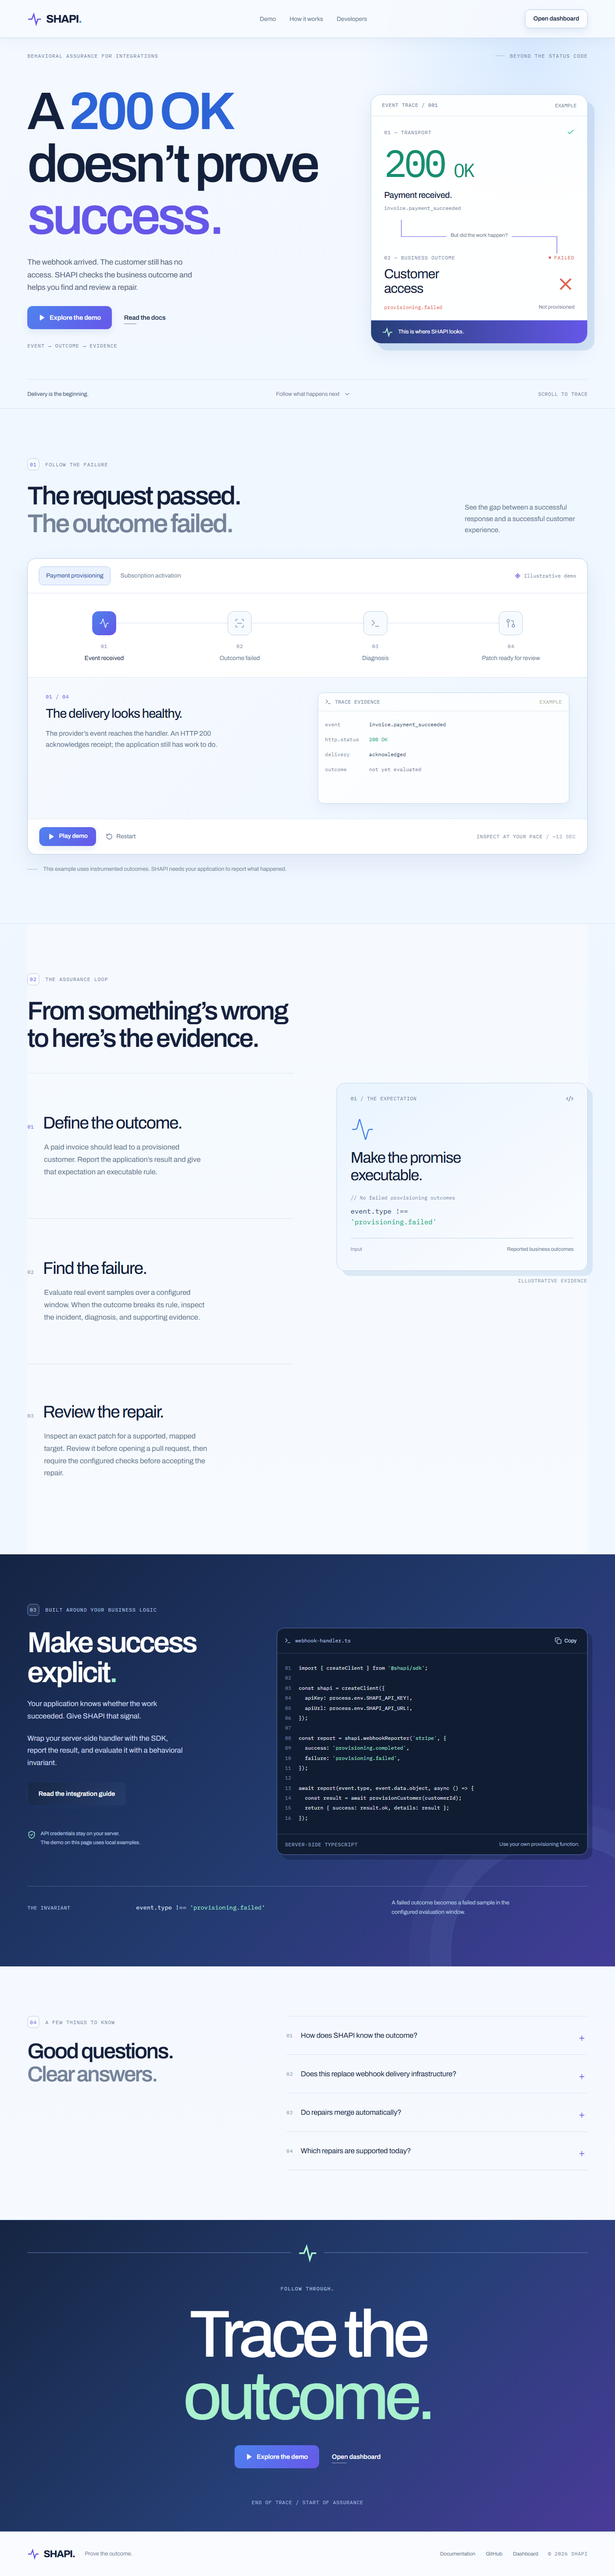
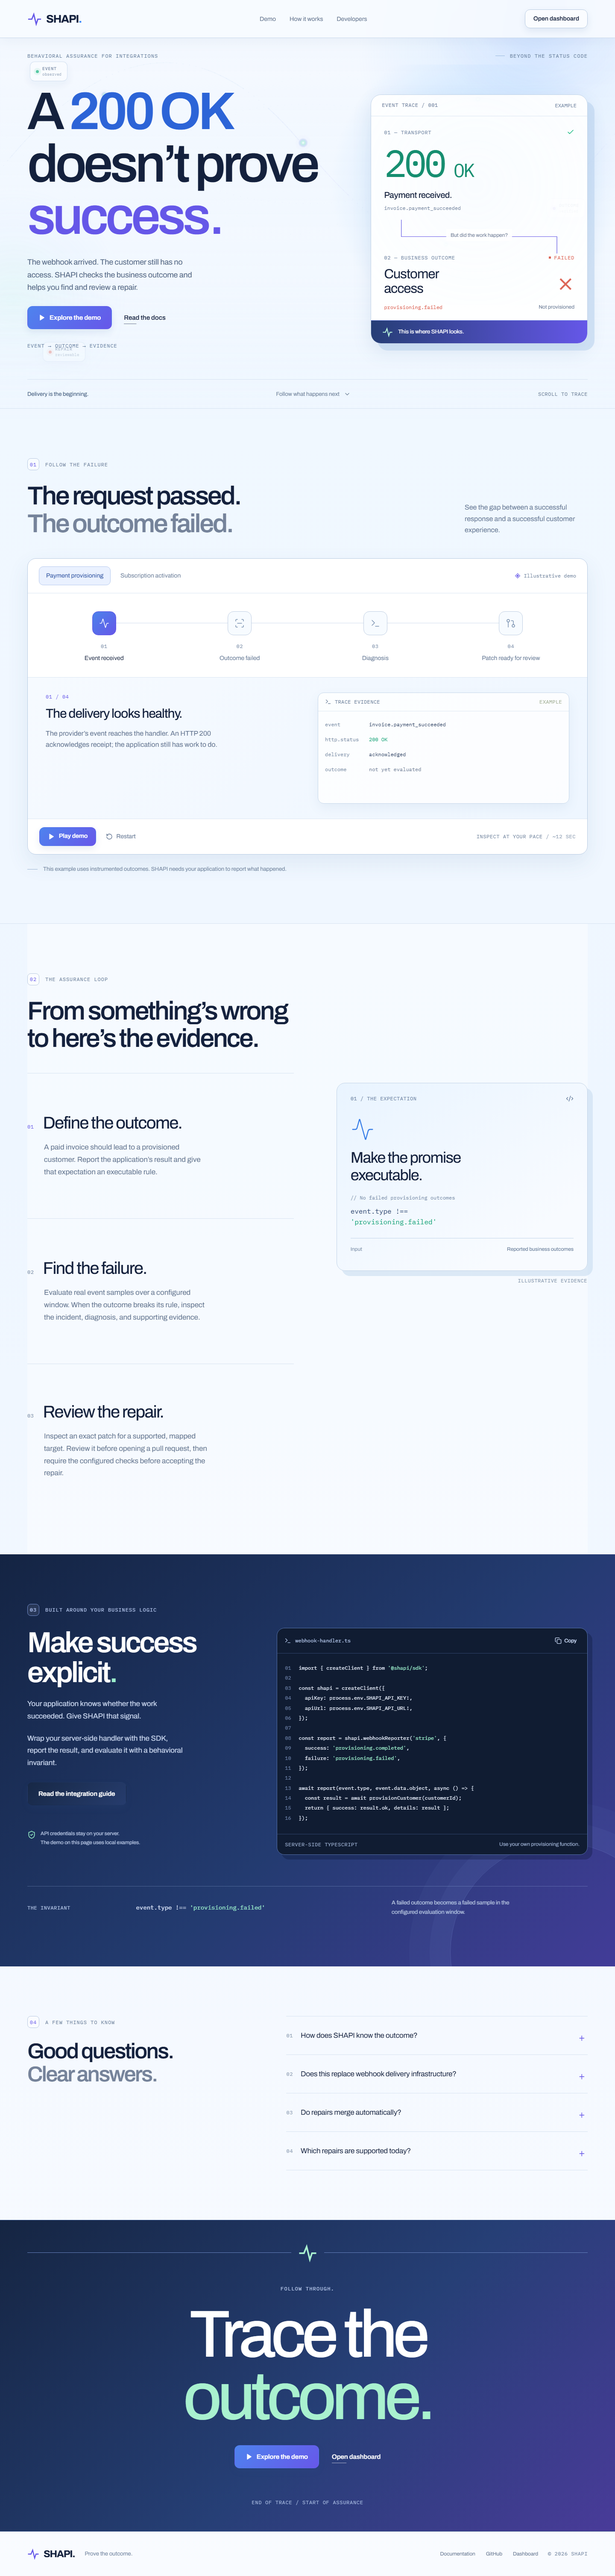
Add animated SHAPI signal field

Changed region(s): [[0.0625, 0.6552, 0.0938, 0.6864]]

diff --git a/dashboard/src/landing/LandingPage.tsx b/dashboard/src/landing/LandingPage.tsx
@@ -44,6 +44,45 @@ function Mark({ className = '' }: { className?: string }) {
   return <svg className={`brand-mark ${className}`} viewBox="0 0 36 36" fill="none" aria-hidden="true"><path d="M2 19h9l5-12 6 24 4-12h8" stroke="currentColor" strokeWidth="3" strokeLinejoin="miter" /></svg>;
 }
 
+function AmbientSystem() {
+  const reduced = useReducedMotion();
+  const motionTransition = (duration: number, delay = 0) => reduced ? { duration: 0 } : { duration, delay, repeat: Infinity, repeatType: 'mirror' as const, ease: 'easeInOut' as const };
+  return <div className="ambient-system" aria-hidden="true">
+    <div className="ambient-aurora ambient-aurora-one" />
+    <div className="ambient-aurora ambient-aurora-two" />
+    <svg className="ambient-orbits" viewBox="0 0 1400 760" preserveAspectRatio="none">
+      <defs>
+        <linearGradient id="ambient-flow" x1="0" y1="0" x2="1" y2="1">
+          <stop offset="0" stopColor="#55d8b0" stopOpacity="0" />
+          <stop offset=".42" stopColor="#5f7df5" stopOpacity=".75" />
+          <stop offset="1" stopColor="#d66bff" stopOpacity="0" />
+        </linearGradient>
+        <radialGradient id="ambient-node" cx="50%" cy="50%" r="50%">
+          <stop offset="0" stopColor="#ffffff" />
+          <stop offset=".34" stopColor="#9cf0d1" />
+          <stop offset="1" stopColor="#6571eb" stopOpacity="0" />
+        </radialGradient>
+      </defs>
+      <path className="ambient-orbit ambient-orbit-one" d="M-80 510 C210 70 460 50 690 340 S1120 720 1500 180" />
+      <path className="ambient-orbit ambient-orbit-two" d="M-100 170 C220 650 560 650 830 240 S1180 80 1510 530" />
+      <motion.path className="ambient-flow" d="M-80 510 C210 70 460 50 690 340 S1120 720 1500 180" pathLength="1" initial={{ pathLength: reduced ? 1 : 0, opacity: reduced ? .2 : 0 }} animate={{ pathLength: 1, opacity: [.15, .8, .15] }} transition={{ pathLength: reduced ? { duration: 0 } : { duration: 4.2, ease: 'easeInOut' }, opacity: motionTransition(5.4) }} />
+      <motion.g animate={reduced ? undefined : { rotate: [0, 360] }} transition={reduced ? undefined : { duration: 38, repeat: Infinity, ease: 'linear' }} style={{ transformOrigin: '700px 360px' }}>
+        <ellipse className="ambient-ring" cx="700" cy="360" rx="300" ry="116" />
+        <ellipse className="ambient-ring ambient-ring-secondary" cx="700" cy="360" rx="220" ry="178" transform="rotate(-28 700 360)" />
+      </motion.g>
+      <g className="ambient-node-cloud">
+        <motion.circle cx="238" cy="222" r="8" fill="url(#ambient-node)" animate={reduced ? undefined : { cy: [222, 244, 222], opacity: [.35, 1, .35] }} transition={motionTransition(3.8, .2)} />
+        <motion.circle cx="690" cy="334" r="11" fill="url(#ambient-node)" animate={reduced ? undefined : { r: [8, 15, 8], opacity: [.45, 1, .45] }} transition={motionTransition(4.7, .8)} />
+        <motion.circle cx="1088" cy="232" r="7" fill="url(#ambient-node)" animate={reduced ? undefined : { cy: [232, 208, 232], opacity: [.25, .9, .25] }} transition={motionTransition(4.1, 1.1)} />
+        <motion.circle cx="1015" cy="572" r="6" fill="url(#ambient-node)" animate={reduced ? undefined : { cx: [1015, 1040, 1015], opacity: [.25, .8, .25] }} transition={motionTransition(3.2, .6)} />
+      </g>
+    </svg>
+    <div className="ambient-badge ambient-badge-one"><span className="ambient-badge-dot" /><strong>EVENT</strong><small>observed</small></div>
+    <div className="ambient-badge ambient-badge-two"><span className="ambient-badge-dot ambient-badge-dot-violet" /><strong>OUTCOME</strong><small>verified</small></div>
+    <div className="ambient-badge ambient-badge-three"><span className="ambient-badge-dot ambient-badge-dot-coral" /><strong>REPAIR</strong><small>reviewable</small></div>
+  </div>;
+}
+
 function Reveal({ children, className = '' }: { children: ReactNode; className?: string }) {
   const reduced = useReducedMotion();
   return <motion.div className={className} initial={reduced ? false : { opacity: 0, y: 20 }} whileInView={{ opacity: 1, y: 0 }} viewport={{ once: true, amount: 0.12 }} transition={{ duration: 0.55, ease: EASE }}>{children}</motion.div>;
@@ -273,5 +312,5 @@ function Closing() {
 }
 
 export function LandingPage() {
-  return <div className="landing-page" id="top"><a className="skip-link" href="#main">Skip to content</a><Navigation /><main id="main"><Hero /><InteractiveDemo /><Workflow /><Developers /><Faq /><Closing /></main></div>;
+  return <div className="landing-page" id="top"><a className="skip-link" href="#main">Skip to content</a><AmbientSystem /><Navigation /><main id="main"><Hero /><InteractiveDemo /><Workflow /><Developers /><Faq /><Closing /></main></div>;
 }

diff --git a/dashboard/src/landing/landing.css b/dashboard/src/landing/landing.css
@@ -716,3 +716,130 @@ h2 { color: var(--ink); font-weight: 570; }
   .demo-console, .workflow-evidence, .sdk-panel { border-radius: 16px; }
   .workflow-evidence { box-shadow: 7px 7px 0 rgba(204, 222, 241, .64); }
 }
+
+/* Living signal field: the page has motion, but the motion always explains the product. */
+.landing-page { position: relative; }
+.landing-page > main { position: relative; z-index: 1; }
+.ambient-system {
+  position: absolute;
+  top: 0;
+  left: 0;
+  z-index: 0;
+  width: 100%;
+  height: min(980px, 100vh);
+  overflow: hidden;
+  pointer-events: none;
+  opacity: .92;
+  isolation: isolate;
+}
+.ambient-system::after {
+  position: absolute;
+  inset: 0;
+  content: '';
+  background: linear-gradient(180deg, rgba(241, 248, 255, .12) 0%, rgba(241, 248, 255, .04) 65%, #eef6ff 100%);
+}
+.ambient-aurora {
+  position: absolute;
+  width: 34rem;
+  height: 34rem;
+  border-radius: 50%;
+  filter: blur(5px);
+  opacity: .24;
+  mix-blend-mode: multiply;
+  animation: ambient-drift 16s ease-in-out infinite;
+}
+.ambient-aurora-one {
+  top: -17rem;
+  right: -6rem;
+  background: radial-gradient(circle, rgba(111, 158, 255, .72) 0%, rgba(132, 152, 255, .2) 43%, transparent 70%);
+}
+.ambient-aurora-two {
+  top: 27rem;
+  left: -15rem;
+  animation-delay: -6s;
+  background: radial-gradient(circle, rgba(98, 227, 188, .46) 0%, rgba(155, 206, 255, .18) 45%, transparent 70%);
+}
+.ambient-orbits {
+  position: absolute;
+  top: 0;
+  left: 0;
+  width: 100%;
+  height: 760px;
+  overflow: visible;
+  opacity: .65;
+}
+.ambient-orbit {
+  fill: none;
+  stroke: rgba(90, 126, 214, .17);
+  stroke-width: 1;
+  stroke-dasharray: 2 13;
+}
+.ambient-orbit-two { stroke: rgba(93, 204, 178, .14); stroke-dasharray: 1 18; }
+.ambient-flow {
+  fill: none;
+  stroke: url(#ambient-flow);
+  stroke-width: 2;
+  stroke-linecap: round;
+  stroke-dasharray: .05 .035;
+  filter: drop-shadow(0 0 7px rgba(99, 122, 235, .36));
+}
+.ambient-ring {
+  fill: none;
+  stroke: rgba(112, 135, 233, .21);
+  stroke-width: 1;
+  stroke-dasharray: 1 15;
+}
+.ambient-ring-secondary { stroke: rgba(94, 207, 177, .17); stroke-dasharray: 1 21; }
+.ambient-node-cloud { filter: drop-shadow(0 0 8px rgba(112, 132, 236, .3)); }
+.ambient-badge {
+  position: absolute;
+  display: grid;
+  grid-template-columns: auto 1fr;
+  column-gap: 8px;
+  align-items: center;
+  padding: 10px 13px 9px;
+  border: 1px solid rgba(188, 207, 232, .72);
+  border-radius: 11px;
+  color: #5d7191;
+  background: rgba(255, 255, 255, .56);
+  box-shadow: 0 10px 25px rgba(91, 124, 170, .08);
+  backdrop-filter: blur(11px);
+  font-family: var(--mono);
+  transform: translateZ(0);
+  animation: ambient-bob 7s ease-in-out infinite;
+}
+.ambient-badge strong { font-size: .62rem; line-height: 1.3; letter-spacing: .08em; }
+.ambient-badge small { grid-column: 2; color: #8c9db4; font-size: .59rem; line-height: 1.3; }
+.ambient-badge-dot { grid-row: 1 / span 2; width: 7px; height: 7px; border-radius: 50%; background: #35bd8f; box-shadow: 0 0 0 5px rgba(53, 189, 143, .12); }
+.ambient-badge-dot-violet { background: #7165e8; box-shadow: 0 0 0 5px rgba(113, 101, 232, .12); }
+.ambient-badge-dot-coral { background: #e67567; box-shadow: 0 0 0 5px rgba(230, 117, 103, .12); }
+.ambient-badge-one { top: 9rem; left: max(2rem, calc(50% - 650px)); }
+.ambient-badge-two { top: 29rem; right: max(3rem, calc(50% - 650px)); animation-delay: -2s; }
+.ambient-badge-three { top: 50rem; left: max(4rem, calc(50% - 620px)); animation-delay: -4s; }
+
+@keyframes ambient-drift {
+  0%, 100% { transform: translate3d(0, 0, 0) scale(1); }
+  50% { transform: translate3d(2.5rem, 1.4rem, 0) scale(1.05); }
+}
+@keyframes ambient-bob {
+  0%, 100% { transform: translate3d(0, 0, 0); }
+  50% { transform: translate3d(0, -8px, 0); }
+}
+
+@media (max-width: 899px) {
+  .ambient-badge-one { left: 2rem; }
+  .ambient-badge-two { right: 2rem; }
+  .ambient-badge-three { left: 8rem; }
+}
+@media (max-width: 639px) {
+  .ambient-system { height: 800px; }
+  .ambient-orbits { height: 620px; width: 170%; left: -35%; opacity: .5; }
+  .ambient-aurora { width: 24rem; height: 24rem; }
+  .ambient-badge { transform: scale(.82); transform-origin: left top; }
+  .ambient-badge-one { top: 8.5rem; left: 1rem; }
+  .ambient-badge-two { top: 29rem; right: -1rem; transform-origin: right top; }
+  .ambient-badge-three { top: 53rem; left: 2rem; }
+}
+@media (prefers-reduced-motion: reduce) {
+  .ambient-aurora, .ambient-badge { animation: none; }
+}
